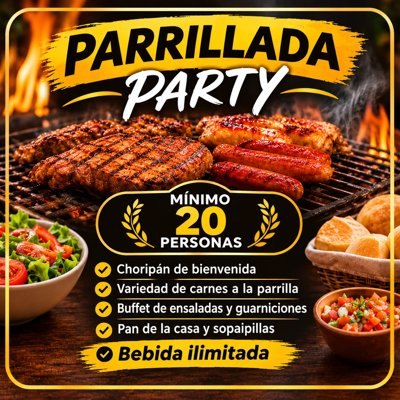
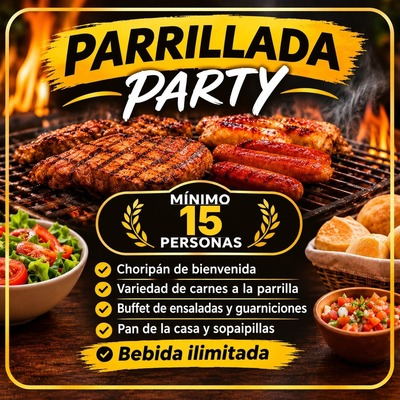
Móvil: ficha de pago visible, barra compacta, días próximos, Khipu en textos, miniatura parrillada
Claude-Session: https://claude.ai/code/session_01BKQvMtX6CgrMaUSMGhDZoe

diff --git a/prototipo-casa-di-mauro/index.html b/prototipo-casa-di-mauro/index.html
@@ -159,7 +159,7 @@ footer a:nth-child(even){text-align:right}
 .chat .q button{background:#fff;border:1px solid var(--line);border-radius:999px;padding:6px 11px;font-size:13px;cursor:pointer}
 .modal{position:fixed;inset:0;background:rgba(10,24,17,.7);display:flex;align-items:center;justify-content:center;padding:16px;z-index:40}
 .modal .box{background:#fff;color:#1c2b3a;border-radius:14px;max-width:460px;width:100%;padding:20px;display:flex;flex-direction:column;gap:12px;max-height:92vh;overflow:auto}
-.modal .box{position:relative}.mx{position:sticky;top:0;align-self:flex-end;order:-1;margin:-8px -8px -34px 0;width:36px;height:36px;border-radius:50%;border:0;background:rgba(255,255,255,.92);color:#17402b;font-size:26px;line-height:1;cursor:pointer;box-shadow:0 1px 6px rgba(0,0,0,.3);z-index:2}.mx:hover,.mx:focus-visible{box-shadow:inset 0 0 0 2px #c9a24a,0 1px 6px rgba(0,0,0,.3);outline:none}
+.modal .box>*{flex-shrink:0}.modal .box>div:last-child:has(>.btn){position:sticky;bottom:-20px;background:#fff;padding:10px 0 4px;margin-top:auto;z-index:3;border-top:1px solid #eee}.modal .box{position:relative}.mx{position:sticky;top:0;align-self:flex-end;order:-1;margin:-8px -8px -34px 0;width:36px;height:36px;border-radius:50%;border:0;background:rgba(255,255,255,.92);color:#17402b;font-size:26px;line-height:1;cursor:pointer;box-shadow:0 1px 6px rgba(0,0,0,.3);z-index:2}.mx:hover,.mx:focus-visible{box-shadow:inset 0 0 0 2px #c9a24a,0 1px 6px rgba(0,0,0,.3);outline:none}
 .modal .box img.big{width:100%;border-radius:10px}
 .flowbar{background:#1d6fe0;color:#fff;border-radius:8px;padding:8px 12px;font-weight:600}
 .sum td:last-child,.sum th:last-child{text-align:right}
@@ -408,6 +408,8 @@ body.hasbar .chat-b{bottom:calc(var(--barh,90px) + 26px + env(safe-area-inset-bo
 .gpick .evpick.ghost{background:#fffaf0;color:#17402b;border:1.5px solid #17402b}
 #gmodo button,.gpick .evpick{transition:box-shadow .12s}
 #gmodo button:hover,.gpick .evpick:hover:not(:disabled),#gmodo button:focus-visible,.gpick .evpick:focus-visible,#gmodo button:active,.gpick .evpick:active:not(:disabled){box-shadow:inset 0 0 0 2px #c9a24a;outline:none}
+@media(max-width:560px){.chat-b .t{display:none}.chat-b{padding:4px!important;gap:0!important}
+#gbar{flex-wrap:nowrap;gap:8px;padding:8px 12px}#gbar .sg{flex:1;min-width:0}#gbar .sg>span:first-child{white-space:nowrap;overflow:hidden;text-overflow:ellipsis}#gbar .tt{font-size:22px}#gbar .sr{margin-left:0}#gbar .btn{padding:10px 20px}}
 .card.sec{scroll-margin-top:150px}
 .gpick{display:grid;grid-template-columns:repeat(6,1fr);gap:8px;margin-bottom:8px}
 .gpick .evpick{grid-column:span 2;padding:10px 8px!important;font-size:15px!important;line-height:1.2;min-height:52px;display:flex;align-items:center;justify-content:center;text-align:center}
@@ -765,9 +767,9 @@ function openCheckout(){
     mb.innerHTML='<h3 style="font-family:var(--serif)">'+descr(sel)+'</h3><div class="note">'+fmt(ci)+' al '+fmt(co)+'</div>'+gh+meals+
     (g?'<div class="scroll"><table class="sum">'+c.items.map(function(i){return '<tr><td>'+i[0]+'</td><td>'+(typeof i[1]==='number'?CLP(i[1]):i[1])+'</td></tr>'}).join('')+'<tr class="t"><td>Total</td><td>'+CLP(c.total)+'</td></tr></table></div>'+
     '<div class="good"><div>Valor total: <b>'+CLP(c.total)+'</b></div><div>Abono hoy (primera noche de alojamiento): <b>'+CLP(c.anticipo)+'</b></div><div>Saldo al llegar'+(c.total>c.habs||c.pend?(K.adv?', con las comidas y actividades':', con las comidas'):'')+': <b>'+CLP(c.total-c.anticipo)+'</b></div></div>'+
-    '<div class="field"><label for="gn">Nombre</label><input id="gn"></div><div class="field"><label for="gm">Correo</label><input id="gm" type="email"></div><div class="field"><label for="gw">WhatsApp</label><input id="gw"></div>':'<div class="warn">Cuéntanos cuántas personas son para mostrarte el total.</div>')+
+    '<div class="field"><label for="gn">Nombre</label><input id="gn" autocomplete="organization" autocapitalize="words"></div><div class="field"><label for="gm">Correo</label><input id="gm" type="email" inputmode="email" autocomplete="email"></div><div class="field"><label for="gw">WhatsApp</label><input id="gw" type="tel" inputmode="tel" autocomplete="tel"></div>':'<div class="warn">Cuéntanos cuántas personas son para mostrarte el total.</div>')+
     POLDEV(pack)+
-    '<div style="display:flex;gap:10px;flex-wrap:wrap"><button class="btn" id="go" type="button"'+(g?'':' disabled')+'>'+(LIVE.on()?'Pagar abono con Khipu':'Pagar abono con Flow')+'</button><button class="btn ghost" id="cl" type="button">Cerrar</button></div>';
+    '<div style="display:flex;gap:10px;flex-wrap:wrap"><button class="btn" id="go" type="button"'+(g?'':' disabled')+'>'+(LIVE.on()?'Pagar abono con Khipu':'Pagar abono con Khipu')+'</button><button class="btn ghost" id="cl" type="button">Cerrar</button></div>';
     ['gn','gm','gw'].forEach(function(i){if($(i)&&opt.f[i])$(i).value=opt.f[i]});
     $('gq').onchange=function(){keep();opt.g=+$('gq').value||0;if(opt.mp+opt.pc>opt.g){opt.mp=0;opt.pc=0}if(opt.nye>opt.g)opt.nye=0;ACT.forEach(function(a){if(opt[a.id]>opt.g)opt[a.id]=0});draw()};
     mb.querySelectorAll('.mstp').forEach(function(e){var k=e.getAttribute('data-k'),mx=+e.getAttribute('data-max');
@@ -795,7 +797,7 @@ function openCheckout(){
         });
         return}
       var cod='CDM-'+Math.random().toString(36).slice(2,7).toUpperCase();
-      mb.innerHTML='<div class="flowbar">Flow · modo de prueba</div><p><b>Pago de '+CLP(c.anticipo)+'</b></p><p class="note">Simulación del paso de pago. En el sitio final aquí se abre la pantalla de Flow y la reserva se confirma solo cuando Flow lo avisa.</p><button class="btn" id="ok" type="button" style="background:#1d6fe0">Simular pago aprobado</button><button class="btn ghost" id="cl2" type="button">Volver</button>';
+      mb.innerHTML='<div class="flowbar">Khipu · modo de prueba</div><p><b>Pago de '+CLP(c.anticipo)+'</b></p><p class="note">Simulación del paso de pago. En el sitio final aquí se abre la pantalla de Khipu y la reserva se confirma solo cuando Khipu lo avisa.</p><button class="btn" id="ok" type="button" style="background:#1d6fe0">Simular pago aprobado</button><button class="btn ghost" id="cl2" type="button">Volver</button>';
       $('cl2').onclick=draw;
       $('ok').onclick=function(){mb.innerHTML='<h3 style="font-family:var(--serif)">Reserva confirmada (demo)</h3><div class="good">Código '+cod+'. Valor total '+CLP(c.total)+'. Abono '+CLP(c.anticipo)+' (primera noche de alojamiento). Saldo al llegar: '+CLP(c.total-c.anticipo)+'.</div><p class="note">Recibirías la confirmación por correo y WhatsApp. No se cobró ni se envió nada.</p><button class="btn" id="cl3" type="button">Cerrar</button>';$('cl3').onclick=closeModal};
     };
@@ -850,11 +852,11 @@ function romCk(){
     '<div class="good"><div>Valor total: <b>'+CLP(c.total)+'</b></div><div>Abono hoy (primera noche de alojamiento): <b>'+CLP(c.abono)+'</b></div><div>Saldo al llegar: <b>'+CLP(c.total-c.abono)+'</b></div></div>'+
     '<div class="field"><label for="rn">Nombre</label><input id="rn"></div><div class="field"><label for="rm">Correo</label><input id="rm" type="email"></div><div class="field"><label for="rw">WhatsApp</label><input id="rw"></div>'+
     POLDEV(0)+
-    '<div style="display:flex;gap:10px;flex-wrap:wrap"><button class="btn" id="rgo" type="button">Pagar abono con Flow</button><button class="btn ghost" id="rcl" type="button">Cerrar</button></div>';
+    '<div style="display:flex;gap:10px;flex-wrap:wrap"><button class="btn" id="rgo" type="button">Pagar abono con Khipu</button><button class="btn ghost" id="rcl" type="button">Cerrar</button></div>';
     $('rcl').onclick=closeModal;
     $('rgo').onclick=function(){
       var cod='CDM-'+Math.random().toString(36).slice(2,7).toUpperCase();
-      mb.innerHTML='<div class="flowbar">Flow · modo de prueba</div><p><b>Pago de '+CLP(c.abono)+'</b></p><p class="note">Simulación del paso de pago. En el sitio final aquí se abre la pantalla de Flow y la reserva se confirma solo cuando Flow lo avisa.</p><button class="btn" id="rok" type="button" style="background:#1d6fe0">Simular pago aprobado</button><button class="btn ghost" id="rcl2" type="button">Volver</button>';
+      mb.innerHTML='<div class="flowbar">Khipu · modo de prueba</div><p><b>Pago de '+CLP(c.abono)+'</b></p><p class="note">Simulación del paso de pago. En el sitio final aquí se abre la pantalla de Khipu y la reserva se confirma solo cuando Khipu lo avisa.</p><button class="btn" id="rok" type="button" style="background:#1d6fe0">Simular pago aprobado</button><button class="btn ghost" id="rcl2" type="button">Volver</button>';
       $('rcl2').onclick=draw;
       $('rok').onclick=function(){mb.innerHTML='<h3 style="font-family:var(--serif)">Reserva confirmada (demo)</h3><div class="good">Código '+cod+'. Valor total '+CLP(c.total)+'. Abono '+CLP(c.abono)+' (primera noche de alojamiento). Saldo al llegar: '+CLP(c.total-c.abono)+'.</div><p class="note">Recibirías la confirmación por correo y WhatsApp. No se cobró ni se envió nada.</p><button class="btn" id="rcl3" type="button">Cerrar</button>';$('rcl3').onclick=closeModal};
     };
@@ -913,11 +915,11 @@ function advCk(){
     '<div class="good"><div>Valor total: <b>'+CLP(c.total)+'</b>'+(c.pend?' más actividades':'')+'</div><div>Abono hoy (primera noche de alojamiento): <b>'+CLP(c.anticipo)+'</b></div><div>Saldo al llegar: <b>'+CLP(c.total-c.anticipo)+'</b></div></div>'+
     '<div class="field"><label for="vn">Nombre</label><input id="vn"></div><div class="field"><label for="vm">Correo</label><input id="vm" type="email"></div><div class="field"><label for="vw">WhatsApp</label><input id="vw"></div>'+
     POLDEV(0)+
-    '<div style="display:flex;gap:10px;flex-wrap:wrap"><button class="btn" id="vgo" type="button">Pagar abono con Flow</button><button class="btn ghost" id="vcl" type="button">Cerrar</button></div>';
+    '<div style="display:flex;gap:10px;flex-wrap:wrap"><button class="btn" id="vgo" type="button">Pagar abono con Khipu</button><button class="btn ghost" id="vcl" type="button">Cerrar</button></div>';
     $('vcl').onclick=closeModal;
     $('vgo').onclick=function(){
       var cod='CDM-'+Math.random().toString(36).slice(2,7).toUpperCase();
-      mb.innerHTML='<div class="flowbar">Flow · modo de prueba</div><p><b>Pago de '+CLP(c.anticipo)+'</b></p><p class="note">Simulación del paso de pago. En el sitio final aquí se abre la pantalla de Flow y la reserva se confirma solo cuando Flow lo avisa.</p><button class="btn" id="vok" type="button" style="background:#1d6fe0">Simular pago aprobado</button><button class="btn ghost" id="vcl2" type="button">Volver</button>';
+      mb.innerHTML='<div class="flowbar">Khipu · modo de prueba</div><p><b>Pago de '+CLP(c.anticipo)+'</b></p><p class="note">Simulación del paso de pago. En el sitio final aquí se abre la pantalla de Khipu y la reserva se confirma solo cuando Khipu lo avisa.</p><button class="btn" id="vok" type="button" style="background:#1d6fe0">Simular pago aprobado</button><button class="btn ghost" id="vcl2" type="button">Volver</button>';
       $('vcl2').onclick=draw;
       $('vok').onclick=function(){mb.innerHTML='<h3 style="font-family:var(--serif)">Reserva confirmada (demo)</h3><div class="good">Código '+cod+'. Valor total '+CLP(c.total)+(c.pend?' más actividades':'')+'. Abono '+CLP(c.anticipo)+' (primera noche de alojamiento). Saldo al llegar: '+CLP(c.total-c.anticipo)+'.</div><p class="note">Recibirías la confirmación por correo y WhatsApp. No se cobró ni se envió nada.</p><button class="btn" id="vcl3" type="button">Cerrar</button>';$('vcl3').onclick=closeModal};
     };
@@ -1001,6 +1003,10 @@ function evFull(d,b,i){return evTom(d,b,i)+G.p>EXPS[i].cap}
 function evUsado(i,d,b){return EXPS.some(function(x,k){return k!==i&&G.e[k]&&G.ev[k]&&G.ev[k].d===d&&G.ev[k].b===b})}
 function evOk(){return EXPS.every(function(x,i){return !G.e[i]||(G.ev[i]&&G.ev[i].d&&G.ev[i].b)})}
 function evResumen(){return EXPS.map(function(x,i){if(!G.e[i]||!G.ev[i]||!G.ev[i].d)return '';var b=EVB.filter(function(q){return q[0]===G.ev[i].b})[0];return '<div class="note">'+x.n+': <b>'+fmt(G.ev[i].d)+'</b>'+(b?' · '+b[1]+' h':'')+'</div>'}).join('')}
+function evDiasLibres(min,max,i){var m={},ds=[];
+  if(LX.on()){var s=LX.get(i);if(s&&s.by)ds=Object.keys(s.by).sort()}else for(var k=0;k<75;k++)ds.push(ISO(new Date(FEC(min).getTime()+k*864e5)));
+  ds.forEach(function(d){if(d<min||d>max||EVCERR.indexOf(d)>-1)return;EVB.forEach(function(bb){if(evCell(d,bb[0],i).hay)(m[d]=m[d]||[]).push(bb[1].slice(0,5))})});
+  return Object.keys(m).sort().slice(0,8).map(function(d){return {d:d,t:m[d]}})}
 function evDiasUnir(min,max,i){var m={};
   if(LX.on()){var s=LX.get(i);if(s&&s.by)Object.keys(s.by).forEach(function(d){if(d<min||d>max||EVCERR.indexOf(d)>-1)return;EVB.forEach(function(bb){var c=s.by[d][bb[0]];if(c&&c.hay)(m[d]=m[d]||[]).push(bb[1].slice(0,5))})})}
   else EVB.forEach(function(bb){Object.keys(EVTOM).forEach(function(k){var a=k.split('|');if(a[2]!==String(i)||a[1]!==bb[0])return;var d=a[0],tom=EVTOM[k];
@@ -1022,6 +1028,8 @@ function gdispDraw(){
   if(vd&&carga)h='<div class="note">Consultando disponibilidad…</div>';
   else if(vd&&falla)h='<div class="warn">No pudimos consultar la disponibilidad ahora. Inténtalo de nuevo en un momento o escríbenos por WhatsApp.</div>';
   else if(vd){var x=EXPS[i];
+    if(!peq){dias=evDiasLibres(min,max,i);var lb=dI.parentNode.querySelector('label');if(lb)lb.textContent=dias.length?'Otra fecha':'Día';
+      h=dias.length?'<div class="note" style="margin:6px 0 2px">Próximos días disponibles</div><div style="display:flex;gap:6px;flex-wrap:wrap;margin:4px 0 8px">'+dias.map(function(q){return '<button type="button" class="btn'+(G.day===q.d?'':' ghost')+' evdia" data-d="'+q.d+'" style="padding:6px 12px;font-size:14px">'+fmt(q.d)+'</button>'}).join('')+'</div>':''}
     if(peq){dias=evDiasUnir(min,max,i);
       h=dias.length?'<div style="display:flex;gap:6px;flex-wrap:wrap;margin:6px 0">'+dias.map(function(q){return '<button type="button" class="btn'+(G.day===q.d?'':' ghost')+' evdia" data-d="'+q.d+'" style="padding:4px 10px;font-size:13px">'+fmt(q.d)+' · '+q.t.join(', ')+'</button>'}).join('')+'</div>'
         :'<div class="warn">Por ahora no hay fechas disponibles para esta experiencia con tu grupo. Escríbenos por WhatsApp y vemos una alternativa: <a href="'+wa('Hola, somos un grupo de '+G.p+' personas y queremos '+x.n+'. ¿Qué fechas tienen?')+'" target="_blank" rel="noopener">Escribir por WhatsApp</a>.</div>'}
@@ -1045,7 +1053,7 @@ function gevDraw(){
   var t=gtot(),box=$('gev'),pn=PLANES.filter(function(x){return x[0]===G.pl})[0];box.hidden=!(t.nm.length||(G.n&&G.pset));
   if(box.hidden){return}
   var h='';
-  if(G.n)h+='<div class="dx" style="display:flex;justify-content:space-between;gap:10px;align-items:flex-start"><span><b>Alojamiento · '+pn[1]+'</b><small>'+pn[2]+' · '+fmt(G.f)+' al '+fmt(G.o)+' · '+G.n+' noche'+(G.n>1?'s':'')+' × '+t.py+' personas</small></span><b>'+CLP(t.py*t.lod)+'</b></div>';
+  if(G.n)h+='<div class="dx" style="display:flex;justify-content:space-between;gap:10px;align-items:flex-start"><span><b>'+(G.pl==='a'?'Alojamiento con desayuno':'Alojamiento · '+pn[1])+'</b><small>'+(G.pl==='a'?'':pn[2]+' · ')+fmt(G.f)+' al '+fmt(G.o)+' · '+G.n+' noche'+(G.n>1?'s':'')+' × '+t.py+' personas</small></span><b>'+CLP(t.py*t.lod)+'</b></div>';
   h+=EXPS.map(function(x,i){if(!G.e[i]||!G.ev[i])return '';var b=EVB.filter(function(q){return q[0]===G.ev[i].b})[0];
     return '<div class="dx" style="display:flex;justify-content:space-between;gap:10px;align-items:flex-start"><span><b>'+x.n+'</b><small>'+fmt(G.ev[i].d)+' · '+b[1]+' h · '+t.py+' personas × '+CLP(x.p)+'</small><button type="button" class="btn ghost evq" data-i="'+i+'" style="padding:3px 12px;margin-top:4px">Quitar</button></span><b>'+CLP(t.py*x.p)+'</b></div>'}).join('');
   h+='<div class="dx" style="display:flex;justify-content:space-between;gap:10px;align-items:center"><b>Total</b><b style="font-size:20px">'+CLP(t.total)+'</b></div>';
@@ -1070,9 +1078,9 @@ function gsum(){
     '<div class="good"><div>Valor total: <b>'+CLP(t.total)+'</b></div><div>Abono hoy ('+(G.n?'primera noche de alojamiento':'50 % de las experiencias')+'): <b>'+CLP(ab)+'</b></div><div>Saldo '+(G.n?'al llegar':'el día del evento')+': <b>'+CLP(t.total-ab)+'</b></div></div>'+
     (t.nm.length?evResumen():'')+
     (f?'<div class="note">Se libera una persona por cada 10 pagados. El descuento se hará al momento de pagar el '+(G.n?'saldo restante':'50 % restante')+'.</div>':'')+
-    '<div class="field"><label for="gn">Nombre o institución</label><input id="gn"></div><div class="field"><label for="gm">Correo</label><input id="gm" type="email"></div><div class="field"><label for="gw">WhatsApp</label><input id="gw"></div>'+
+    '<div class="field"><label for="gn">Nombre o institución</label><input id="gn" autocomplete="organization" autocapitalize="words"></div><div class="field"><label for="gm">Correo</label><input id="gm" type="email" inputmode="email" autocomplete="email"></div><div class="field"><label for="gw">WhatsApp</label><input id="gw" type="tel" inputmode="tel" autocomplete="tel"></div>'+
     (G.n?POLDEV(0):'')+(t.nm.length?POLEXP():'')+
-    '<div style="display:flex;gap:10px;flex-wrap:wrap"><button class="btn" id="ggo" type="button">'+(LX.on()?(G.modo==='exp'?'Pagar abono con Khipu':'Enviar solicitud por WhatsApp'):'Pagar abono con Flow')+'</button><button class="btn ghost" id="cl4" type="button">Cerrar</button></div>';
+    '<div style="display:flex;gap:10px;flex-wrap:wrap"><button class="btn" id="ggo" type="button">'+(LX.on()?(G.modo==='exp'?'Pagar abono con Khipu':'Enviar solicitud por WhatsApp'):'Pagar abono con Khipu')+'</button><button class="btn ghost" id="cl4" type="button">Cerrar</button></div>';
     $('cl4').onclick=closeModal;
     $('ggo').onclick=function(){
       if(LX.on()){
@@ -1093,7 +1101,7 @@ function gsum(){
             mb.innerHTML='<h3 style="font-family:var(--serif)">Reserva retenida</h3><div class="warn">'+LX.msg(pg.codigo)+'</div><p class="note">Tu reserva quedó retenida por un tiempo limitado. Cuando el pago esté disponible podrás completarlo; si necesitas ayuda, escríbenos por el botón de Rayén.</p><button class="btn" id="cl9" type="button">Cerrar</button>';$('cl9').onclick=closeModal})});
         return}
       var cod='CDM-'+Math.random().toString(36).slice(2,7).toUpperCase();
-      mb.innerHTML='<div class="flowbar">Flow · modo de prueba</div><p><b>Pago de '+CLP(ab)+'</b></p><p class="note">Simulación del paso de pago. En el sitio final aquí se abre la pantalla de Flow y la reserva se confirma solo cuando Flow lo avisa.</p><button class="btn" id="gok" type="button" style="background:#1d6fe0">Simular pago aprobado</button><button class="btn ghost" id="gv" type="button">Volver</button>';
+      mb.innerHTML='<div class="flowbar">Khipu · modo de prueba</div><p><b>Pago de '+CLP(ab)+'</b></p><p class="note">Simulación del paso de pago. En el sitio final aquí se abre la pantalla de Khipu y la reserva se confirma solo cuando Khipu lo avisa.</p><button class="btn" id="gok" type="button" style="background:#1d6fe0">Simular pago aprobado</button><button class="btn ghost" id="gv" type="button">Volver</button>';
       $('gv').onclick=draw;
       $('gok').onclick=function(){mb.innerHTML='<h3 style="font-family:var(--serif)">Reserva confirmada (demo)</h3><div class="good">Código '+cod+'. Valor total '+CLP(t.total)+'. Abono '+CLP(ab)+'. Saldo '+(G.n?'al llegar':'el día del evento')+': '+CLP(t.total-ab)+'.</div><p class="note">Recibirías la confirmación por correo y WhatsApp. No se cobró ni se envió nada.</p><button class="btn" id="gc3" type="button">Cerrar</button>';$('gc3').onclick=closeModal};
     };
@@ -1261,7 +1269,7 @@ hero();heroPz();setInterval(heroPz,1000);setInterval(hero,1000);
 var FAQ=[
  ['¿Cuántas habitaciones hay?','Son 10 habitaciones, todas con baño privado: 5 matrimoniales, 1 doble twin y 4 triples. Capacidad máxima, 24 personas. Abajo hay 3 matrimoniales; arriba, las otras 7.'],
  ['¿El desayuno está incluido?','Sí. Todas las habitaciones incluyen desayuno sureño semibuffet.'],
- ['¿Cómo se paga y se cancela?','Para reservar se abona con Flow el valor de la primera noche; el resto y las comidas se pagan al llegar. Con 15 días o más de aviso, se devuelve el 100 % del abono. Con menos aviso, si no se presenta o decide irse después de llegar, no hay devolución.'],
+ ['¿Cómo se paga y se cancela?','Para reservar se abona con Khipu el valor de la primera noche; el resto y las comidas se pagan al llegar. Con 15 días o más de aviso, se devuelve el 100 % del abono. Con menos aviso, si no se presenta o decide irse después de llegar, no hay devolución.'],
  ['¿Dónde queda?','En Camino a Coñaripe #100, Licán Ray. Playa Ensenada está a 15 minutos caminando y las termas a menos de 40 minutos.'],
  ['¿Aceptan grupos?','Sí, desde 15 personas, con una persona liberada por cada 10 que pagan. Pide tu cotización en Grupos y delegaciones.']
 ];
